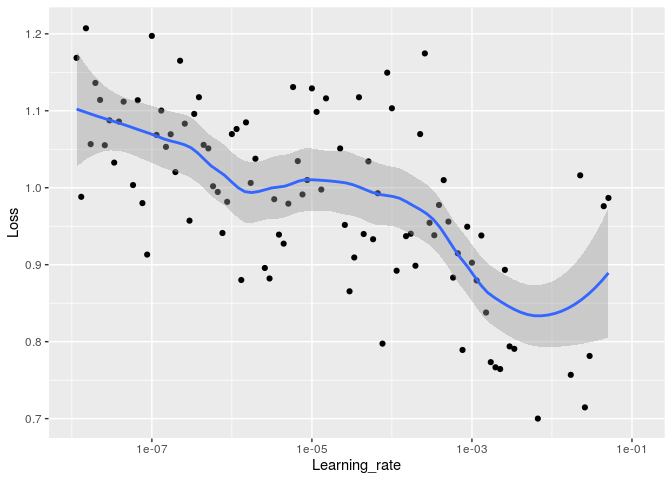
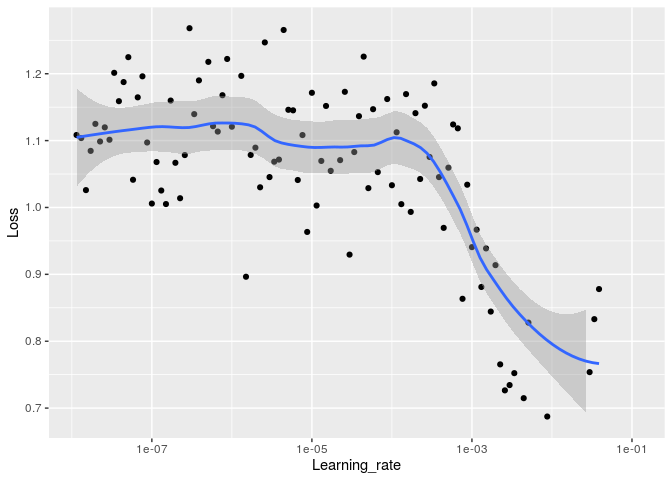
Tryinh some cosine annealing

diff --git a/resnet50-lr-finder-and-cyclic-lr-with-r.md b/resnet50-lr-finder-and-cyclic-lr-with-r.md
@@ -37,14 +37,14 @@ policy.
 library(tidyverse)
 ```
 
-    ## ── Attaching packages ─────────────────────────────────────────────────────────────────────────────────────────────────────── tidyverse 1.3.0 ──
+    ## ── Attaching packages ──────────────────────────────────────────────────────────────────────────────────────────────────────── tidyverse 1.3.0 ──
 
     ## ✓ ggplot2 3.3.0     ✓ purrr   0.3.4
     ## ✓ tibble  3.0.0     ✓ dplyr   0.8.5
     ## ✓ tidyr   1.0.2     ✓ stringr 1.4.0
     ## ✓ readr   1.3.1     ✓ forcats 0.5.0
 
-    ## ── Conflicts ────────────────────────────────────────────────────────────────────────────────────────────────────────── tidyverse_conflicts() ──
+    ## ── Conflicts ─────────────────────────────────────────────────────────────────────────────────────────────────────────── tidyverse_conflicts() ──
     ## x dplyr::filter() masks stats::filter()
     ## x dplyr::lag()    masks stats::lag()
 
@@ -287,8 +287,8 @@ str(batch)
 ```
 
     ## List of 2
-    ##  $ : num [1:32, 1:224, 1:224, 1:3] 58.9 120.1 55.8 164 81 ...
-    ##  $ : num [1:32, 1:4] 1 0 1 0 1 0 0 0 0 0 ...
+    ##  $ : num [1:32, 1:224, 1:224, 1:3] 66 124 75.6 192.4 135.8 ...
+    ##  $ : num [1:32, 1:4] 0 1 1 1 0 0 0 0 0 0 ...
 
 # Import pre-trained model
 
@@ -468,13 +468,13 @@ data <- data.frame("Learning_rate" = lr_hist, "Loss" = callback_log_acc_lr$loss)
 head(data)
 ```
 
-    ##   Learning_rate      Loss
-    ## 1  1.145048e-08 1.1687186
-    ## 2  1.311134e-08 0.9881935
-    ## 3  1.501311e-08 1.2071823
-    ## 4  1.719072e-08 1.0566913
-    ## 5  1.968419e-08 1.1361701
-    ## 6  2.253934e-08 1.1140846
+    ##   Learning_rate     Loss
+    ## 1  1.145048e-08 1.108392
+    ## 2  1.311134e-08 1.103797
+    ## 3  1.501311e-08 1.025971
+    ## 4  1.719072e-08 1.084623
+    ## 5  1.968419e-08 1.125008
+    ## 6  2.253934e-08 1.098663
 
 Learning rate vs loss
 :
@@ -564,6 +564,7 @@ Cyclic_LR <- function(iteration=1:32000, base_lr=1e-5, max_lr=1e-3, step_size=20
             if(mode=='triangular2'){scale_fn <- function(x) 1/(2^(x-1)); scale_mode <- 'cycle';}
             if(mode=='exp_range'){scale_fn <- function(x) gamma^(x); scale_mode <- 'iterations';}
             if(mode=='sinus'){scale_fn <- function(x) 0.5*(1+sin(x*pi/2)); scale_mode <- 'cycle';}
+            if(mode=='halfcosine'){scale_fn <- function(x) 0.5*(1+cos(x*pi)^2); scale_mode <- 'cycle';}
       }
       lr <- list()
       if(is.vector(iteration)==TRUE){
@@ -580,26 +581,17 @@ Cyclic_LR <- function(iteration=1:32000, base_lr=1e-5, max_lr=1e-3, step_size=20
 }
 ```
 
+## Trying cosine annealing
+
 ``` r
 n=40
 nb_epochs=10
 n_iter<-n*nb_epochs
 ```
 
-### About the learning rate
-
-Based on the previous graph, I used a learning rate of 1e-3. The article
-[The 1cycle policy](https://sgugger.github.io/the-1cycle-policy.html),
-mentionned that we can use a bigger learning rate as a regularizer, but
-a maximum learning rate of 5e-3 gave average results in my my previous
-attempt :
-
-![Val loss and Train loss for a maximum learning rate of
-5e-3](resnet50-lr-finder-and-cyclic-lr-with-r_files/figure-gfm/maxlr5e3.png)
-
 ``` r
 l_rate <- Cyclic_LR(iteration=1:n_iter, base_lr=1e-5, max_lr=1e-3, step_size=floor(n/2),
-                        mode='triangular', gamma=0.99, scale_fn=NULL, scale_mode='cycle')
+                        mode='triangular', gamma=1, scale_fn=NULL, scale_mode='cycle')
 ```
 
 ``` r
@@ -655,11 +647,60 @@ plot(history)
 
 ![](resnet50-lr-finder-and-cyclic-lr-with-r_files/figure-gfm/plot_perforance-1.png)<!-- -->
 
+## Trying cosine annealing
+
+``` r
+n=40
+nb_epochs=5
+n_iter<-n*nb_epochs
+```
+
+``` r
+l_rate <- Cyclic_LR(iteration=1:n_iter, base_lr=1e-5, max_lr=1e-3, step_size=floor(n),
+                        mode='halfcosine', gamma=1, scale_fn=NULL, scale_mode='cycle')
+
+l_rate <- rep(l_rate[n:(n*2)], nb_epochs)
+```
+
+``` r
+plot(l_rate, type="b", pch=16, xlab="iteration", cex=0.2, ylab="learning rate", col="grey50")
+```
+
+![](resnet50-lr-finder-and-cyclic-lr-with-r_files/figure-gfm/unnamed-chunk-49-1.png)<!-- -->
+
+``` r
+history <- model %>% fit_generator(
+    train_generator,
+    steps_per_epoch=n,
+    epochs = nb_epochs,
+    callbacks = callback_list, #callback to update cylic lr
+    validation_data = validation_generator,
+    validation_step=50
+)
+```
+
+``` r
+plot(history)
+```
+
+![](resnet50-lr-finder-and-cyclic-lr-with-r_files/figure-gfm/unnamed-chunk-51-1.png)<!-- -->
+
 Load best model :
 
 ``` r
 #model<-load_model_hdf5("raw_model.h5")
 ```
+
+### About the learning rate
+
+Based on the previous graph, I used a learning rate of 1e-3. The article
+[The 1cycle policy](https://sgugger.github.io/the-1cycle-policy.html),
+mentionned that we can use a bigger learning rate as a regularizer, but
+a maximum learning rate of 5e-3 gave average results in my my previous
+attempt :
+
+![Val loss and Train loss for a maximum learning rate of
+5e-3](resnet50-lr-finder-and-cyclic-lr-with-r_files/figure-gfm/maxlr5e3.png)
 
 # Submit
 
